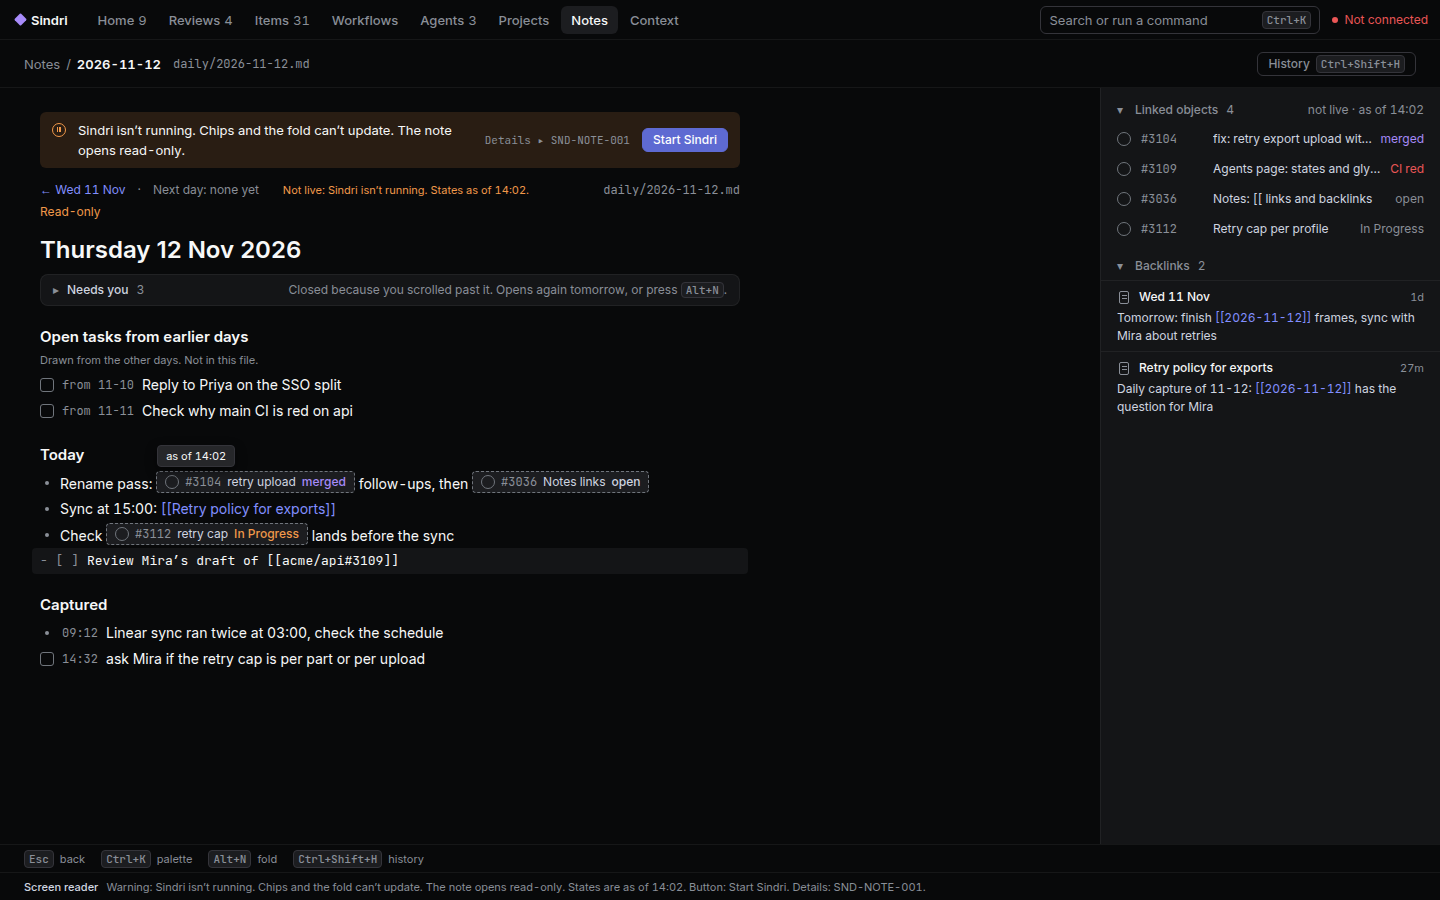
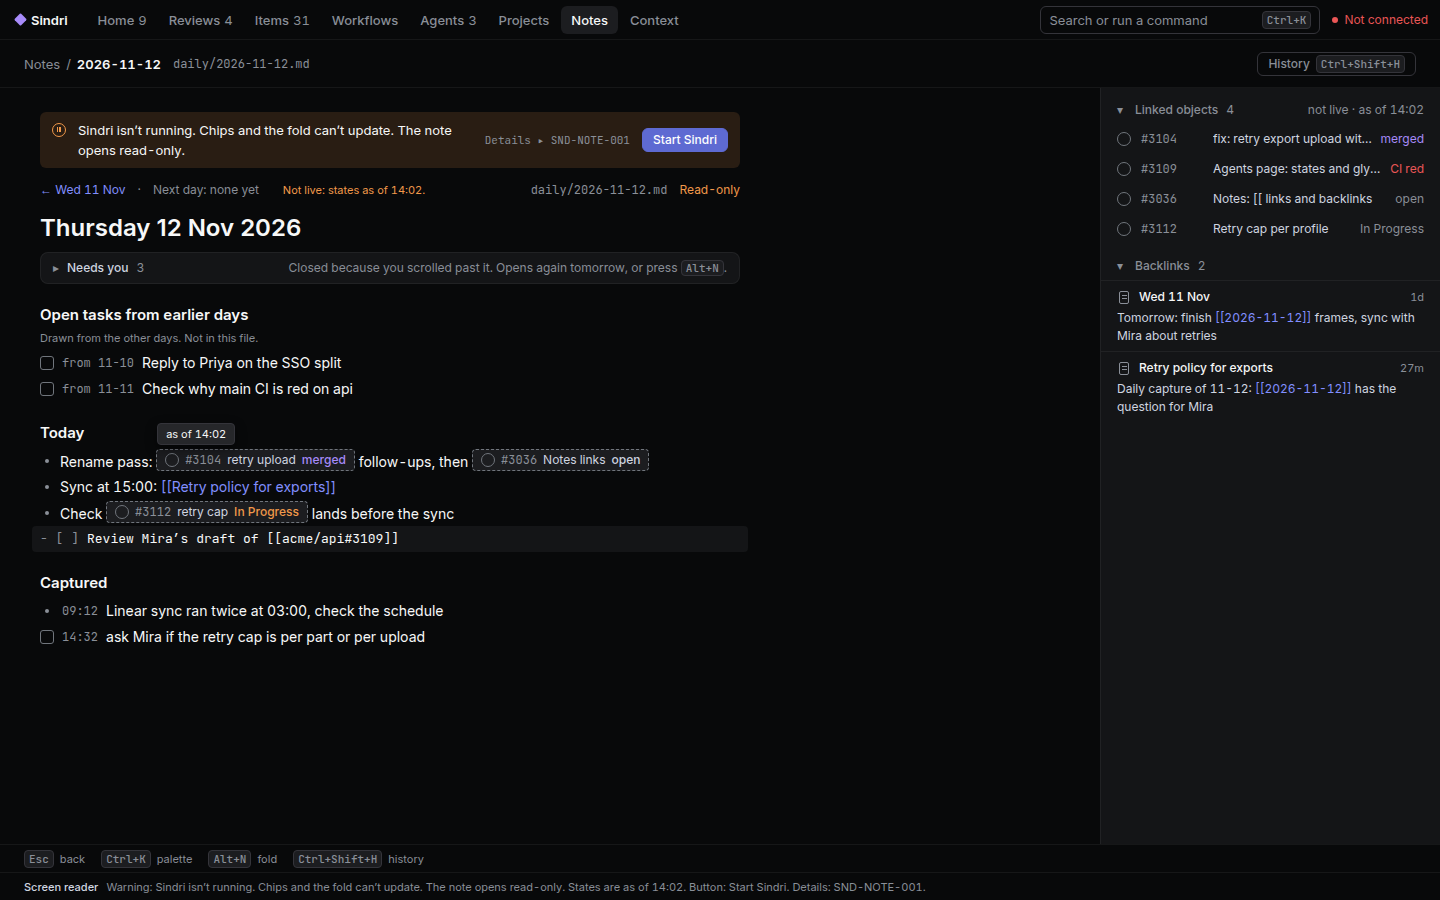
design: Notes read-only frames, one-line Read-only, ghost-down copy (Part of #3205)

Changed region(s): [[0.0312, 0.2178, 0.5, 0.7467], [0.2188, 0.1867, 0.5312, 0.2178]]

diff --git a/guesses.md b/guesses.md
@@ -60,22 +60,24 @@ Round 1 guess numbers no longer apply. Items below are invented in these frames 
 42. The legend frame has a reviewer caption with the order rule and shows open and draft pulls with red CI as "CI red".
 
 ## Round 7 (ideas round 6 verdict)
-43. today-ghost says "Not created yet" next to the path (no "Saved"). today-ghost-down matches today-down: "Read-only" marker, right pane "not live · as of 14:02". The read-only down page draws no edit caret.
-44. One text for eng/retry-policy-for-exports.md in the list peek, the backlinks frame and the history diffs (lines "Per part: ...", "Per upload ...", "See [[acme/api#3112]] ...", the ticked "Ask Mira" line). One version list: Yesterday 10:30 is "you · tick" everywhere.
-45. The shared hotkey row is drawn once: notes-settings-hotkey and notes-settings-hotkey-refused are generated from the Projects frame (pr-settings-hotkey-refused), so the row, the error placement inside the card, the single Ctrl+Alt+I keycap, the curly quotes and the tray menu are the same. The two refused frames are pixel-identical.
+46. today-ghost says "Not created yet" next to the path (no "Saved"). today-ghost-down matches today-down: "Read-only" marker, right pane "not live · as of 14:02". The read-only down page draws no edit caret.
+47. One text for eng/retry-policy-for-exports.md in the list peek, the backlinks frame and the history diffs (lines "Per part: ...", "Per upload ...", "See [[acme/api#3112]] ...", the ticked "Ask Mira" line). One version list: Yesterday 10:30 is "you · tick" everywhere.
+48. The shared hotkey row is drawn once: notes-settings-hotkey and notes-settings-hotkey-refused are generated from the Projects frame (pr-settings-hotkey-refused), so the row, the error placement inside the card, the single Ctrl+Alt+I keycap, the curly quotes and the tray menu are the same. The two refused frames are pixel-identical.
 
 ## Round 7 (meta's UX pass, redraw list design-redraw.md)
-43. OS folder dialog (`notes-folder-dialog.png`): drawn in a neutral GNOME-like look, with a fixture tree (Desktop, Documents, Downloads, notes, repos) and `notes` selected. The real dialog is the OS's own and differs per OS.
-44. First-run card sits on the "not created yet" ghost page (a fresh folder has no file for today). The card's three rows follow §4.11 word for word.
-45. Settings login row: Off shows "Turn on" (the spec names only "Turn off" and the card's "Start Sindri at login"). The row has a glyph (hollow circle Off, green check On) and the word. The heading "Start Sindri at login" is the only place that phrase appears.
-46. Capture-hotkey row in Notes Settings: the label, the current key and a link "Change in Settings › Shortcuts →". Section heading "Shortcuts" is a guess.
-47. Restored-draft frames keep the footer to `Enter save · Esc discard`, as the list says (no Ctrl+Tab).
-48. `.` menu: 270 px wide popup under the selected row, "Open" highlighted first, no separator, Delete last and neutral.
-49. Projects row in the `[[` popup: fixture "Audit log retention", state word "Off track" (from the Projects fixture), id column reads "project", glyph is an empty box. Written form: a made-up Linear URL.
-50. Read-only footers (today-down, ghost-down): `Esc back`, no `Ctrl+S save` and no `[[ link`. Only `[[ link` is named in the spec; `Ctrl+S` goes too because nothing can be saved.
-51. Conflict footer: `Tab move between the two buttons`.
-52. Ctrl+Shift+L target: first unlinked row gets a left edge, a primary "Link it" with the chord and a one-line hint; the second row's button has no chord. Footer: "link the focused mention, or the first one".
-53. 1000 px frames: the collapsed right pane is a 36 px rail with a chevron and "Linked objects 4 · Backlinks 2" set vertically. The spec says the pane collapses but not how it comes back. At 1000 px the top bar search reads "Search or run" and the list drops the first-line preview and folder while a peek is open.
-54. Folded fold: `Alt+N` shown as a keycap in the closed header and as `Alt+N fold` in the footer of today frames.
-55. History: the proposal row, band and Accept / Decline stay drawn (the frame's subject); the "v1.1 reference" pill and "13 + 1 proposed" left the app chrome for the italic caption. The versions header reads "Versions 13".
-56. Projects peek "Notes 2": two note titles ("Exports v2: retry cap per part or per upload", "Thu 12 Nov") with ages, a made-up pair.
+46. OS folder dialog (`notes-folder-dialog.png`): drawn in a neutral GNOME-like look, with a fixture tree (Desktop, Documents, Downloads, notes, repos) and `notes` selected. The real dialog is the OS's own and differs per OS.
+47. First-run card sits on the "not created yet" ghost page (a fresh folder has no file for today). The card's three rows follow §4.11 word for word.
+48. Settings login row: Off shows "Turn on" (the spec names only "Turn off" and the card's "Start Sindri at login"). The row has a glyph (hollow circle Off, green check On) and the word. The heading "Start Sindri at login" is the only place that phrase appears.
+49. Capture-hotkey row in Notes Settings: the label, the current key and a link "Change in Settings › Shortcuts →". Section heading "Shortcuts" is a guess.
+50. Restored-draft frames keep the footer to `Enter save · Esc discard`, as the list says (no Ctrl+Tab).
+51. `.` menu: 270 px wide popup under the selected row, "Open" highlighted first, no separator, Delete last and neutral.
+52. Projects row in the `[[` popup: fixture "Audit log retention", state word "Off track" (from the Projects fixture), id column reads "project", glyph is an empty box. Written form: a made-up Linear URL.
+53. Read-only footers (today-down, ghost-down): `Esc back`, no `Ctrl+S save` and no `[[ link`. Only `[[ link` is named in the spec; `Ctrl+S` goes too because nothing can be saved.
+54. Conflict footer: `Tab move between the two buttons`.
+55. Ctrl+Shift+L target: first unlinked row gets a left edge, a primary "Link it" with the chord and a one-line hint; the second row's button has no chord. Footer: "link the focused mention, or the first one".
+56. 1000 px frames: the collapsed right pane is a 36 px rail with a chevron and "Linked objects 4 · Backlinks 2" set vertically. The spec says the pane collapses but not how it comes back. At 1000 px the top bar search reads "Search or run" and the list drops the first-line preview and folder while a peek is open.
+57. Folded fold: `Alt+N` shown as a keycap in the closed header and as `Alt+N fold` in the footer of today frames.
+58. History: the proposal row, band and Accept / Decline stay drawn (the frame's subject); the "v1.1 reference" pill and "13 + 1 proposed" left the app chrome for the italic caption. The versions header reads "Versions 13".
+59. Projects peek "Notes 2": two note titles ("Exports v2: retry cap per part or per upload", "Thu 12 Nov") with ages, a made-up pair.
+
+60. Read-only ghost page: the Read-only word sits in the Saved slot beside the path, and the day-links row says "Not live: states as of 14:02." (the banner already names Sindri). The ghost hint reads "The page is made from your daily template once Sindri is back."

diff --git a/report.md b/report.md
@@ -1,6 +1,6 @@
 # Notes round 2 frames (Part of #2981)
 
-51 1440x900 PNGs (`notes-<name>.png`), same CSS tokens as round 1. Regenerate with `python3 gen.py && ./shoot.sh`.
+61 1440x900 PNGs (`notes-<name>.png`), same CSS tokens as round 1. Regenerate with `python3 gen.py && ./shoot.sh`.
 Settled calls applied: one hotkey Ctrl+Alt+I with an Issue / Note switch (Ctrl+Tab), a capture never loses its line, today's page opens with a
 "Needs you / Moved since yesterday" fold, the daily file has no heading (the view draws the long date), backlinks in the right pane, every issue / PR / run
 reference is a live chip with a "not live" state, no PR-body backlink row, make-issue is Ctrl+Shift+I, one Notes Settings frame, palette ranks title matches first.
@@ -23,7 +23,7 @@ Round 5: reshoot per spec #3205 round 2 (section 5): see guesses 26 to 34. New f
 
 Round 6: ideas round 5 MUSTs (Notes 11, Projects 2), the round 3 ask and spec c7b11da917 calls; see guesses 35 to 42. New: today-ghost, today-ghost-down, settings-folder-error, settings-hotkey.
 
-Round 7 (redraw for meta's UX pass on #3205): 61 PNGs, 1440x900 except `notes-today-1000.png` and `notes-list-peek-1000.png` at 1000x900. Regenerate with `python3 gen.py && ./shoot.sh`. Guesses 43 to 56.
+Round 7 (redraw for meta's UX pass on #3205): 61 PNGs, 1440x900 except `notes-today-1000.png` and `notes-list-peek-1000.png` at 1000x900. Regenerate with `python3 gen.py && ./shoot.sh`. Guesses 46 to 60.
 
 Ghost text contrast (must-fix 5), measured on the PNG pixels of `notes-today-ghost.png` and `notes-today-ghost-down.png`: text `#9ca1aa` on `#08090a` is 7.68:1 (needs 4.5:1; the old `#4f5258` was 2.5:1). Italic is kept as the ghost signal. The ghost headings, hint and "Lines from the capture window land here." all read the same colour.
 
